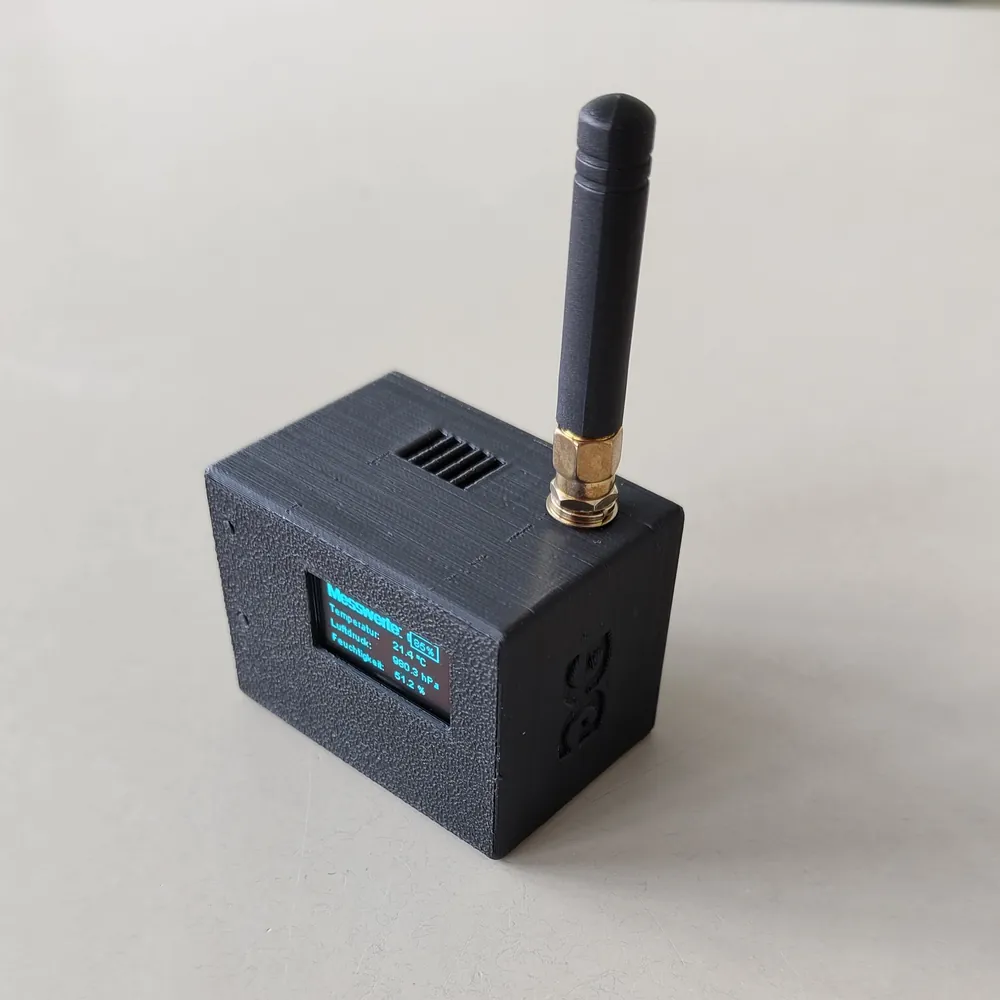
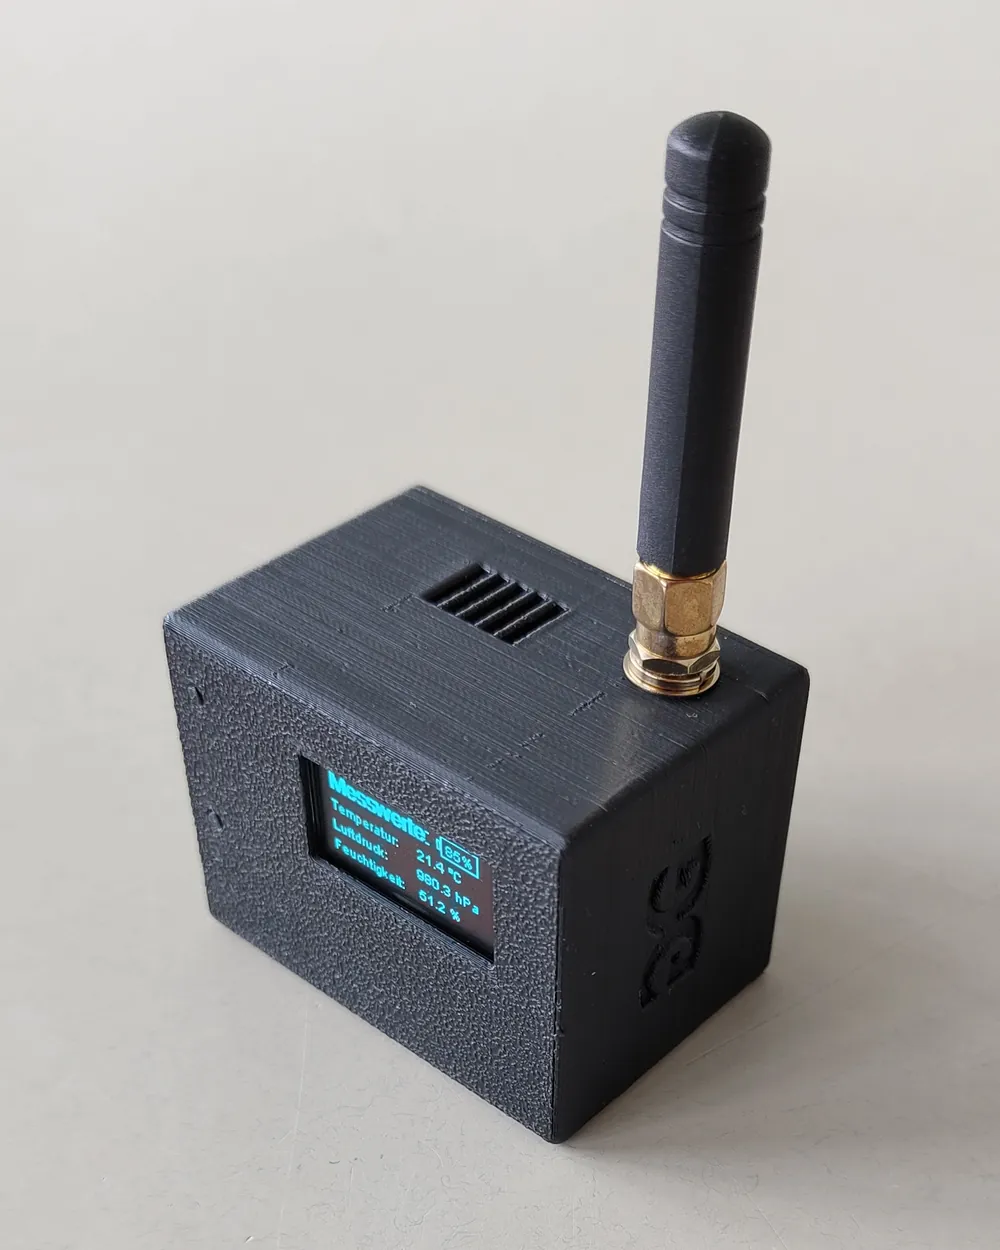
Wetter-Station-Fotos zentriert, Lebenslauf-Links entfernt (LinkedIn stattdessen)

Changed region(s): [[0.155, 0.062, 1.0, 0.961], [0.806, 0.0, 1.0, 0.031]]

diff --git a/index.html b/index.html
@@ -117,7 +117,7 @@
 
         <div class="hero-cta">
           <a class="btn btn--solid" href="#projekte"><span data-i18n="ctaProjects">Projekte ansehen</span><span class="arr" aria-hidden="true">↓</span></a>
-          <a class="btn" href="assets/cv.pdf" target="_blank" rel="noopener"><span data-i18n="ctaCv">Lebenslauf (PDF)</span></a>
+          <a class="btn" href="https://www.linkedin.com/in/giacomo-greco-5281221b2/" target="_blank" rel="noopener me">LinkedIn<span class="arr" aria-hidden="true">↗</span></a>
           <a class="btn" href="https://github.com/GiacomoGreco1" target="_blank" rel="noopener me">GitHub<span class="arr" aria-hidden="true">↗</span></a>
         </div>
       </div>
@@ -288,12 +288,12 @@
           <!-- P/05 Wetter-Station -->
           <article class="project project--stack reveal" aria-labelledby="p-wetter">
             <div class="shots-row">
-              <figure class="shot shot--square">
-                <a class="zoom" href="assets/img/wetter-station-1.webp"><img src="assets/img/wetter-station-1.webp" width="1000" height="1000" loading="lazy" decoding="async"
+              <figure class="shot shot--portrait">
+                <a class="zoom" href="assets/img/wetter-station-1.webp"><img src="assets/img/wetter-station-1.webp" width="1000" height="1250" loading="lazy" decoding="async"
                      alt="Wetter-Station: schwarzes, 3D-gedrucktes Gehäuse mit Antenne und leuchtendem OLED-Display" data-i18n-alt="altWetter"></a>
               </figure>
-              <figure class="shot shot--square">
-                <a class="zoom" href="assets/img/wetter-station-2.webp"><img src="assets/img/wetter-station-2.webp" width="1000" height="1000" loading="lazy" decoding="async"
+              <figure class="shot shot--portrait">
+                <a class="zoom" href="assets/img/wetter-station-2.webp"><img src="assets/img/wetter-station-2.webp" width="1000" height="1250" loading="lazy" decoding="async"
                      alt="Wetter-Station von oben: Das OLED zeigt Temperatur, Luftdruck und Luftfeuchtigkeit" data-i18n-alt="altWetter2"></a>
               </figure>
             </div>
@@ -410,7 +410,6 @@
         <ul class="contact-links reveal">
           <li><a href="https://github.com/GiacomoGreco1" target="_blank" rel="noopener me">GitHub<span class="arr" aria-hidden="true">↗</span></a></li>
           <li><a href="https://www.linkedin.com/in/giacomo-greco-5281221b2/" target="_blank" rel="noopener me">LinkedIn<span class="arr" aria-hidden="true">↗</span></a></li>
-          <li><a href="assets/cv.pdf" target="_blank" rel="noopener"><span data-i18n="ctaCv">Lebenslauf (PDF)</span><span class="arr" aria-hidden="true">↗</span></a></li>
         </ul>
       </div>
     </section>

diff --git a/assets/js/i18n.js b/assets/js/i18n.js
@@ -22,7 +22,6 @@ window.I18N = {
     role: 'IT specialist for application development',
     claim: 'I build software you can <em>touch</em> – from microcontroller firmware to Android apps.',
     ctaProjects: 'View projects',
-    ctaCv: 'CV (PDF)',
 
     hProjects: 'Projects',
     leadProjects: 'Three Android apps and two devices. All designed, built and finished by me – including the parts where the first approach did not work.',
@@ -127,7 +126,6 @@ window.I18N = {
     role: 'Tecnico informatico – sviluppo applicazioni',
     claim: 'Costruisco software che si può <em>toccare</em> – dal firmware per microcontrollori all’app Android.',
     ctaProjects: 'Vedi i progetti',
-    ctaCv: 'Curriculum (PDF)',
 
     hProjects: 'Progetti',
     leadProjects: 'Tre app Android e due dispositivi. Tutto progettato, costruito e portato a termine da me – compresi i punti in cui il primo tentativo non ha funzionato.',

diff --git a/assets/css/style.css b/assets/css/style.css
@@ -429,7 +429,6 @@ strong { font-weight: 600; color: var(--ink); }
 .shots-row { display: grid; grid-template-columns: 1fr 1fr; gap: 12px; }
 .private { font: 400 .78rem/1.5 var(--mono); letter-spacing: .02em; color: var(--mute); }
 .shot--portrait { aspect-ratio: 4 / 5; }
-.shot--square { aspect-ratio: 1 / 1; }
 .shot .zoom { display: block; height: 100%; cursor: zoom-in; }
 .shot .zoom:focus-visible { outline-offset: -4px; }
 .shot--phone  { aspect-ratio: 9 / 16; width: min(100%, 300px); }
